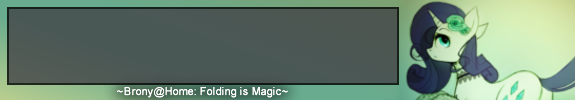
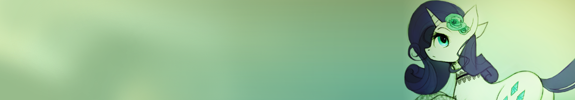
Draw the box with PHP (#1)
Remove box from sig images and draw with PHP

diff --git a/sigimage.php b/sigimage.php
@@ -405,7 +405,7 @@ function drawTextLine($img, $label, $value, $center, $y)
  * @param string $text The text to draw
  * @param string $x The x-coordinate to align the label and value to
  * @param string $y The y-coordinate of the text
- * @param string $align "left" or "right" to align the text
+ * @param string $align "left", "center" or "right" to align the text
  */
 function drawText($img, $colour, $text, $x, $y, $align)
 {
@@ -414,6 +414,11 @@ function drawText($img, $colour, $text, $x, $y, $align)
 	$angle = 0;
 	
 	if ($align === 'left') {
+		imagettftext($img, $size, $angle, $x, $y, $colour, $font, $text);
+	} elseif ($align === 'center') {
+		$bbox = imagettfbbox($size, $angle, $font, $text);
+		$x -= ($bbox[2] - $bbox[0]) / 2;
+		
 		imagettftext($img, $size, $angle, $x, $y, $colour, $font, $text);
 	} else {
 		$bbox = imagettfbbox($size, $angle, $font, $text);
@@ -424,8 +429,43 @@ function drawText($img, $colour, $text, $x, $y, $align)
 	}
 }
 
+/**
+ * Draw translucent background, Brony@Home text etc
+ *
+ * @param resource $img The image to draw onto
+ */
+function drawSurrounding($img)
+{
+	$box = imagecolorallocatealpha($img, 70, 70, 70, 30);
+	
+	imagefilledrectangle($img, 7, 7, 398, 84, $box);
+	
+	$shadow = imagecolorallocatealpha($img, 0, 0, 0, 60);
+	
+	imagefilledrectangle($img, 7, 7, 398, 8, $shadow); // Top
+	imagefilledrectangle($img, 7, 83, 398, 84, $shadow); // Bottom
+	imagefilledrectangle($img, 7, 9, 8, 82, $shadow); // Left
+	imagefilledrectangle($img, 397, 9, 398, 82, $shadow); // Right
+	
+	$white = imagecolorallocate($img, 255, 255, 255);
+	$textX = 203;
+	$textY = 96;
+	
+	for ($y = -1; $y < 2; $y++)
+	{
+		for ($x = -1; $x < 2; $x++)
+		{
+			drawText($img, $shadow, '~Brony@Home: Folding is Magic~', $textX + $x, $textY + $y, 'center');
+		}
+	}
+	
+	drawText($img, $white, '~Brony@Home: Folding is Magic~', $textX, $textY, 'center');
+}
+
 $templateFile = isset($_GET['b']) && file_exists('images/sigimages/' . $_GET['b'] . '.png') ? 'images/sigimages/' . $_GET['b'] . '.png' : 'images/sigimages/luna1.png';
 $template = imagecreatefrompng($templateFile);
+
+drawSurrounding($template);
 
 if (isset($_GET['u']) && isset($_GET['t']) && !isset($_GET['w'])) {
 	FAHImage($template, FAHUser($_GET['u']), FAHTeam($_GET['t']));
